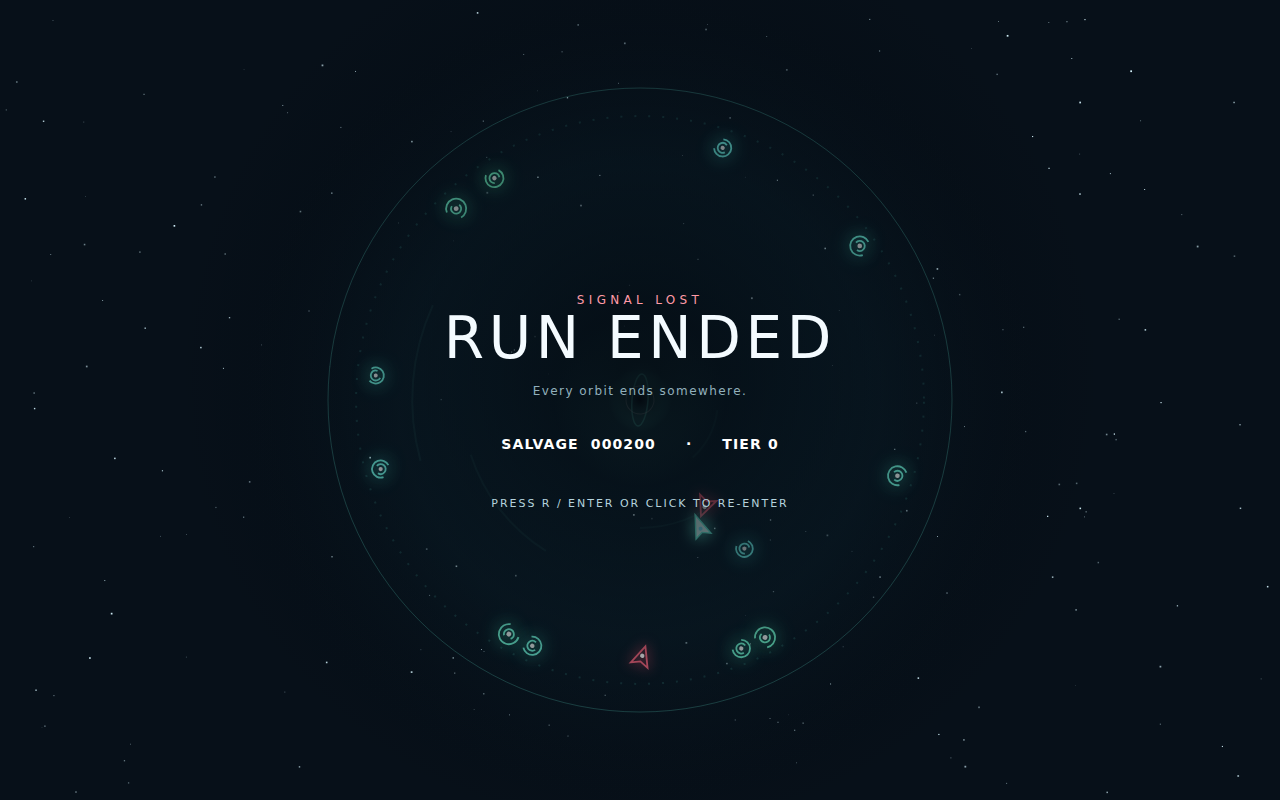
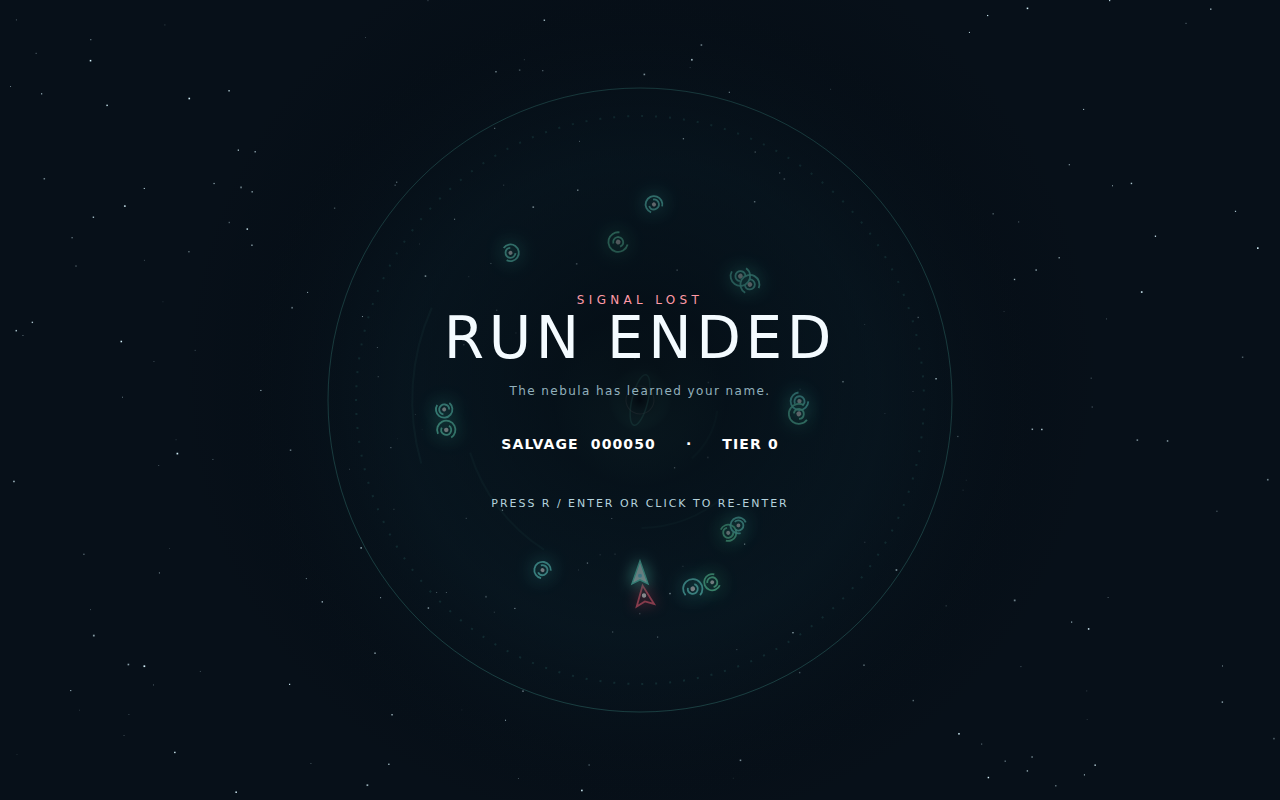
Drift Halo: complete game

diff --git a/README.md b/README.md
@@ -1,0 +1,17 @@
+# makefun-drift-halo
+
+[![make.fun · best-game-01](https://make.fun/badge/best-game-01.svg)](https://make.fun/bounty/best-game-01?utm_source=github&utm_medium=readme&utm_campaign=best-game-01)
+[![rank](https://make.fun/badge/best-game-01/Alfonova-Node/makefun-drift-halo/rank.svg)](https://make.fun/bounty/best-game-01/leaderboard?utm_source=github&utm_medium=readme&utm_campaign=best-game-01)
+[![reward](https://make.fun/badge/best-game-01/Alfonova-Node/makefun-drift-halo/reward.svg)](https://make.fun/bounty/best-game-01?utm_source=github&utm_medium=readme&utm_campaign=best-game-01)
+
+Drift Halo is an original single-file arcade survival game: pilot a drifting ship inside a rotating nebula, lasso orbiting scrap with a tether beam and whip it into hunters, while a hungry gravity well pulls everything toward the core. Each ring you clear raises the danger tier with new enemy behaviors, shifting palettes and synthesized sound — all in one dependency-free TypeScript file.
+
+## Run it
+
+```sh
+npx serve .   # or: python3 -m http.server, then open http://localhost:8000
+```
+
+---
+
+<sub>Entered on [make.fun](https://make.fun/?ref=r4jyg5rt&utm_source=github&utm_medium=readme&utm_campaign=best-game-01).</sub>
